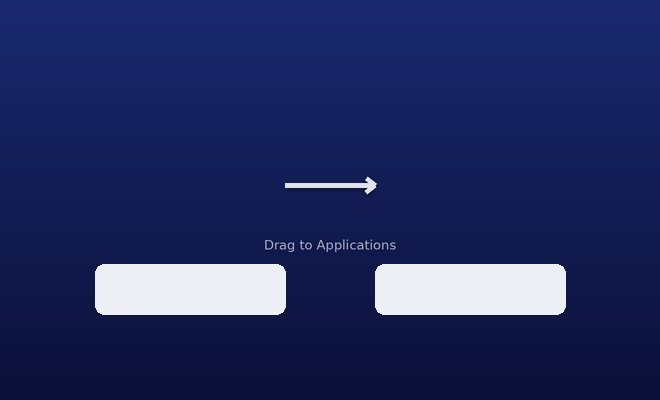
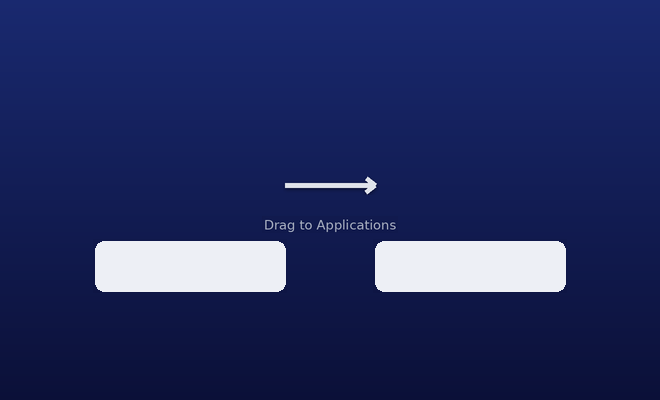
review popover + DMG window: kind-aware copy, full-wrap safety text, label-aligned plates
- ItemReview: a folder's link count is a filesystem detail (2 + subfolders), not shared
  data - the file hardlink row+explanation now shows for files only. Folders get an explicit
  entry-vs-contents note so '0 KB' next to the recursive total is not misleading. The verdict
  safety qualifier and the hardlink explanation wrap in full (fixedSize vertical) instead of
  ellipsizing at the popover's fixed width (run 39653416924 capture showed both cut).
- DMG background: plates moved up 27px and caption up 28px, measured from the rendered window
  capture - Finder's icon labels render at rows 249-273 (center 261); the plates (264-314)
  sat entirely below them. Plates now center on the label (237-287, center 262). Geometry
  verified by compositing the new asset into the actual capture.

Changed region(s): [[0.1212, 0.54, 0.8788, 0.66], [0.5455, 0.72, 0.8788, 0.81], [0.1212, 0.72, 0.4545, 0.81]]

diff --git a/Sources/Spacelyzer/ItemReview.swift b/Sources/Spacelyzer/ItemReview.swift
@@ -208,11 +208,29 @@ struct ItemDetailsView: View {
                     GridRow { Text("On disk").foregroundStyle(.secondary); Text(formatBytes(live.allocated)) }
                     GridRow { Text("Length").foregroundStyle(.secondary); Text(formatBytes(live.logical)) }
                     GridRow { Text("Modified").foregroundStyle(.secondary); Text(live.modified.formatted(date: .abbreviated, time: .shortened)) }
-                    if live.hardLinks > 1 { GridRow { Text("Hard links").foregroundStyle(.secondary); Text("\(live.hardLinks): other names share this data, so removing one name may free no space") } }
+                    // Only a FILE's link count names shared data. A folder's count is a filesystem detail
+                    // (2 + its immediate subfolders), so showing the file explanation there would be a false claim.
+                    if live.kind == .file && live.hardLinks > 1 {
+                        GridRow { Text("Hard links").foregroundStyle(.secondary); Text("\(live.hardLinks)") }
+                    }
                 }.font(.caption)
+                if live.kind == .folder {
+                    // The sidebar shows the recursive total; these rows are the folder's own tiny entry. Say so,
+                    // or "0 KB" next to a 304 MB selection reads like the folder holds nothing.
+                    Text("These describe the folder's own entry, not its contents; the window's size for a folder counts everything inside it.")
+                        .font(.caption).foregroundStyle(.secondary)
+                        .fixedSize(horizontal: false, vertical: true)
+                }
+                if live.kind == .file && live.hardLinks > 1 {
+                    Text("Other names share this data, so removing one name may free no space.")
+                        .font(.caption).foregroundStyle(.secondary)
+                        .fixedSize(horizontal: false, vertical: true)
+                }
             }
             Text(result.verdict.message)
                 .font(.caption).foregroundStyle(result.verdict.allowsProceeding ? Color.secondary : Color.red)
+                // The safety qualifier must wrap in full at the popover's fixed width, never ellipsize.
+                .fixedSize(horizontal: false, vertical: true)
                 .accessibilityLabel(result.verdict.allowsProceeding ? "Matches the scan when checked" : "Cannot confirm this item. \(result.verdict.message)")
         }
     }

diff --git a/scripts/test-workflow-steps.py b/scripts/test-workflow-steps.py
@@ -31,6 +31,7 @@ STUBS = {
 case "$STUB_CARGO" in
   pass) echo 'test result: ok. 31 passed; 0 failed; 0 ignored; 0 measured; 0 filtered out'; echo 'test result: ok. 20 passed; 0 failed; 0 ignored; 0 measured; 0 filtered out'; exit 0;;
   skips) echo 'test result: ok. 31 passed; 0 failed; 0 ignored; 0 measured; 0 filtered out'; echo 'test result: ok. 20 passed; 0 failed; 0 ignored; 0 measured; 0 filtered out'; printf 'nonutf8_a\\nnonutf8_b\\n' >> "$SPZ_SKIP_MANIFEST"; exit 0;;
+  skips8) echo 'test result: ok. 31 passed; 0 failed; 0 ignored; 0 measured; 0 filtered out'; echo 'test result: ok. 20 passed; 0 failed; 0 ignored; 0 measured; 0 filtered out'; printf '%s\\n' 'non_utf8_names_are_left_out_of_the_tree_so_they_are_never_grouped_or_aliased' 'inspect_path_boundary_contract' 'a_non_utf8_scan_root_is_refused_and_a_non_utf8_exclusion_matches_nothing' 'a_non_utf8_path_is_flagged_lossy_and_a_utf8_one_is_not' 'lossy_name_siblings_cannot_alias_a_real_node_or_overmatch_an_exclusion' 'events::tests::non_utf8_root_is_refused_not_scanned_lossily' 'events::tests::non_utf8_root_round_trips_exactly' 'events::tests::non_utf8_roots_with_identical_lossy_text_stay_distinct' >> "$SPZ_SKIP_MANIFEST"; exit 0;;
   fail) echo 'test result: ok. 31 passed; 0 failed; 0 ignored; 0 measured; 0 filtered out'; echo "thread 'x' panicked at engine/tests/engine.rs:1:1"; echo 'test result: FAILED. 19 passed; 1 failed; 0 ignored; 0 measured; 0 filtered out'; exit 101;;
   abort) echo 'error: could not compile'; exit 101;;
 esac''',
@@ -286,6 +287,7 @@ def rust_cases():
     for opts in ('-e', '-eo pipefail'):
         for name, env, want_rc0, want_in in [('all pass', {'STUB_CARGO': 'pass'}, True, ['raw passed=51 failed=0', 'exercised passes=51', 'cargo exit=0']),
                                              ('passes with 2 platform skips', {'STUB_CARGO': 'skips'}, True, ['raw passed=51', 'NOT EXERCISED (platform skips, counted as passed by cargo)=2', 'exercised passes=49', 'nonutf8_a']),
+                                             ('passes with the 8 skips the next Mac run must record (5 existing + 3 events.rs additions)', {'STUB_CARGO': 'skips8'}, True, ['raw passed=51', 'NOT EXERCISED (platform skips, counted as passed by cargo)=8', 'exercised passes=43', 'non_utf8_names_are_left_out_of_the_tree_so_they_are_never_grouped_or_aliased', 'inspect_path_boundary_contract', 'a_non_utf8_scan_root_is_refused_and_a_non_utf8_exclusion_matches_nothing', 'a_non_utf8_path_is_flagged_lossy_and_a_utf8_one_is_not', 'lossy_name_siblings_cannot_alias_a_real_node_or_overmatch_an_exclusion', 'events::tests::non_utf8_root_is_refused_not_scanned_lossily', 'events::tests::non_utf8_root_round_trips_exactly', 'events::tests::non_utf8_roots_with_identical_lossy_text_stay_distinct']),
                                              ('one test fails', {'STUB_CARGO': 'fail'}, False, ['cargo exit=101', 'APPROXIMATE', '::error::']),
                                              ('cargo cannot compile', {'STUB_CARGO': 'abort'}, False, ['cargo exit=101', 'raw passed=0'])]:
             w = workdir(); b = body.replace('/tmp/cargotest.log', w + '/tmp/cargotest.log')
@@ -426,9 +428,9 @@ def dmg_label_plate_case():
     for path, sc in [('Resources/dmg-background.png', 1), ('Resources/dmg-background@2x.png', 2)]:
         w, h, ch, buf = pixels(REPO + '/' + path)
         for cx in (190, 470):
-            m = lum(w, ch, buf, (cx-85)*sc, (cx+85)*sc, 270*sc, 310*sc)
+            m = lum(w, ch, buf, (cx-85)*sc, (cx+85)*sc, 247*sc, 287*sc)
             check(f'{path}: label plate under icon x={cx} is light (lum {m:.2f} >= 0.75)', m >= 0.75, f'{m:.3f}')
-        mid = lum(w, ch, buf, 320*sc, 340*sc, 270*sc, 310*sc)
+        mid = lum(w, ch, buf, 320*sc, 340*sc, 247*sc, 287*sc)
         check(f'{path}: body between the plates stays navy (lum {mid:.2f} < 0.45)', mid < 0.45, f'{mid:.3f}')
 
 asserts_cases(); ordering_cases(); gate_cases(); perf_cases(); demo_cases(); rust_cases(); testbuild_cases(); bulk_cases(); dmg_label_plate_case(); bulk_bsd_head_case(); docs_review_flow_case(); sheet_line_case()
